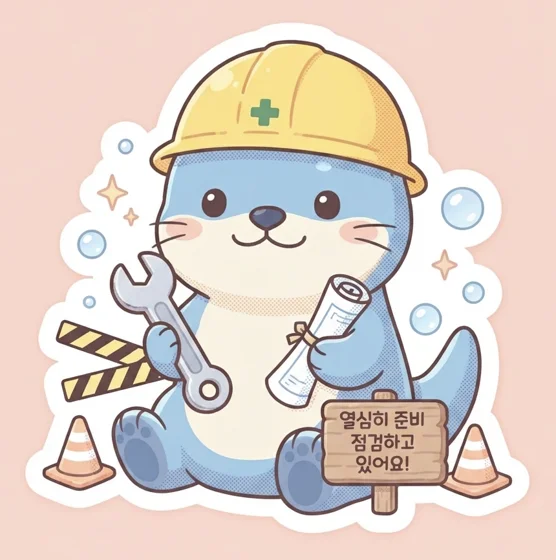
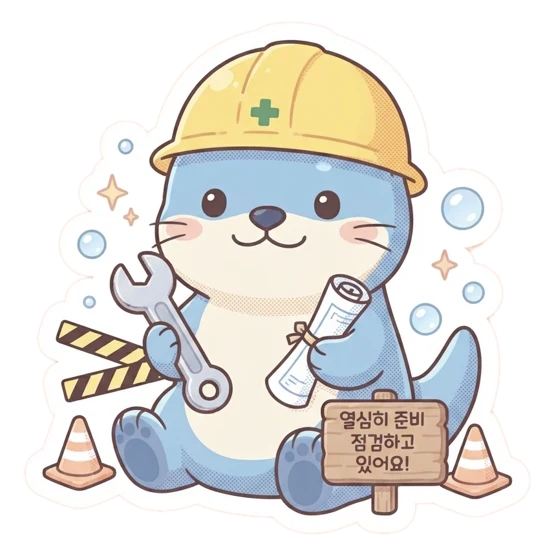
프리미엄 준비 중 팝업: 이미지 배경 제거, 도리 색감에 맞춘 바탕·글자색
Claude-Session: https://claude.ai/code/session_01FPQAi4jW73mZTUVSE5DNJG

diff --git a/src/components/landing/PremiumSoonPopup.tsx b/src/components/landing/PremiumSoonPopup.tsx
@@ -4,16 +4,16 @@
 export default function PremiumSoonPopup({ onClose }: { onClose: () => void }) {
   return (
     <div className="fixed inset-0 z-[130] flex items-center justify-center bg-black/55 px-5" role="dialog" aria-modal="true" aria-label="프리미엄 사주 준비 중 안내" data-testid="premium-soon-popup" onClick={onClose}>
-      <div className="w-full max-w-[300px] animate-[betaPop_.4s_cubic-bezier(.2,1.3,.4,1)] rounded-[22px] bg-[#fcf6ef] px-[18px] pb-4 pt-4 text-center shadow-2xl" onClick={(e) => e.stopPropagation()}>
+      <div className="w-full max-w-[292px] animate-[betaPop_.4s_cubic-bezier(.2,1.3,.4,1)] rounded-[22px] border-2 border-white bg-gradient-to-b from-[#fff4ee] via-[#fde9e2] to-[#f6e6f3] px-[18px] pb-4 pt-4 text-center shadow-2xl" onClick={(e) => e.stopPropagation()}>
         {/* eslint-disable-next-line @next/next/no-img-element */}
-        <img src="/images/premium-soon.webp" alt="안전모를 쓰고 준비 중인 수달 도리" className="mx-auto block w-[170px] rounded-2xl" />
+        <img src="/images/premium-soon.webp" alt="안전모를 쓰고 준비 중인 수달 도리" className="mx-auto -mt-1 block w-[196px] drop-shadow-[0_6px_10px_rgba(180,110,100,0.25)]" />
         <span className="mt-2.5 inline-block rounded-full bg-gradient-to-r from-[#8fb0f6] to-[#c9a7ef] px-3 py-1 text-[11px] font-extrabold text-white">👑 PREMIUM</span>
         <h4 className="mt-2 text-[18px] font-black leading-snug text-[#1f2a55]">
           프리미엄 사주는
           <br />
           아직 준비 중이에요
         </h4>
-        <p className="mt-2 text-[12.5px] leading-relaxed text-[#7a6a4f]">
+        <p className="mt-2 text-[12.5px] leading-relaxed text-[#8a6a62]">
           도리가 더 정성껏 다듬고 있어요.
           <br />
           조금만 기다려 주시면
